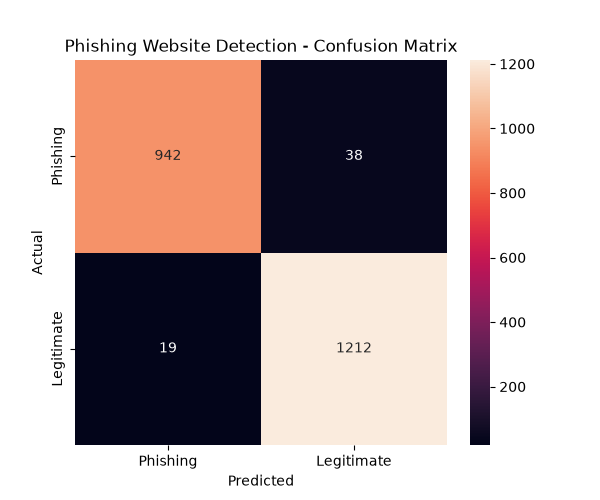
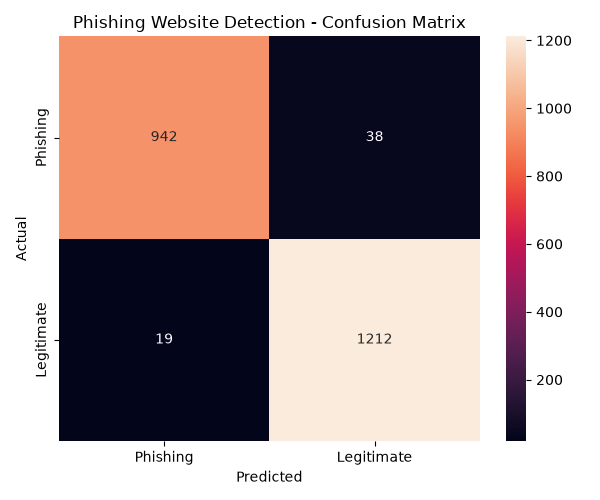
Improve README and update model

diff --git a/main.py b/main.py
@@ -5,14 +5,26 @@ from sklearn.metrics import accuracy_score, classification_report, confusion_mat
 import matplotlib.pyplot as plt
 import seaborn as sns
 
-# Load dataset
+
+# ==========================================
+# 1. LOAD DATASET
+# ==========================================
+
 df = pd.read_csv("data/dataset.csv")
 
-# Separate features and target
+
+# ==========================================
+# 2. SEPARATE FEATURES AND TARGET
+# ==========================================
+
 X = df.drop("Result", axis=1)
 y = df["Result"]
 
-# Split dataset into training and testing data
+
+# ==========================================
+# 3. SPLIT DATA INTO TRAINING AND TESTING
+# ==========================================
+
 X_train, X_test, y_train, y_test = train_test_split(
     X,
     y,
@@ -21,35 +33,82 @@ X_train, X_test, y_train, y_test = train_test_split(
     stratify=y
 )
 
-# Create Random Forest model
+
+# ==========================================
+# 4. CREATE RANDOM FOREST MODEL
+# ==========================================
+
 model = RandomForestClassifier(
     n_estimators=100,
     random_state=42
 )
 
-# Train the model
+
+# ==========================================
+# 5. TRAIN MODEL
+# ==========================================
+
 model.fit(X_train, y_train)
 
-# Make predictions
+
+# ==========================================
+# 6. WEBSITE PREDICTION FUNCTION
+# ==========================================
+
+def predict_website(features):
+    prediction = model.predict([features])[0]
+
+    if prediction == -1:
+        return "Phishing Website"
+    else:
+        return "Legitimate Website"
+
+
+# ==========================================
+# 7. TEST MODEL
+# ==========================================
+
 y_pred = model.predict(X_test)
 
-# Calculate accuracy
+
+# ==========================================
+# 8. CALCULATE ACCURACY
+# ==========================================
+
 accuracy = accuracy_score(y_test, y_pred)
+
 
 print("Phishing Website Detection Model")
 print("---------------------------------")
 print("Training samples:", len(X_train))
 print("Testing samples:", len(X_test))
 print("Accuracy:", round(accuracy * 100, 2), "%")
+
+
+# ==========================================
+# 9. CLASSIFICATION REPORT
+# ==========================================
+
 print("\nClassification Report:")
 print(classification_report(y_test, y_pred))
 
-print("Confusion Matrix:")
-print(confusion_matrix(y_test, y_pred))
-# Create confusion matrix visualization
+
+# ==========================================
+# 10. CONFUSION MATRIX
+# ==========================================
+
 cm = confusion_matrix(y_test, y_pred)
 
+print("Confusion Matrix:")
+print(cm)
+
+
+# ==========================================
+# 11. CONFUSION MATRIX VISUALIZATION
+# ==========================================
+
 plt.figure(figsize=(6, 5))
+
 sns.heatmap(
     cm,
     annot=True,
@@ -62,5 +121,8 @@ plt.xlabel("Predicted")
 plt.ylabel("Actual")
 plt.title("Phishing Website Detection - Confusion Matrix")
 
+plt.tight_layout()
+
 plt.savefig("results/confusion_matrix.png")
+
 plt.show()

diff --git a/README.md b/README.md
@@ -1,0 +1,100 @@
+# Machine Learning-Based Phishing Website Detection
+
+A machine learning project that detects whether a website is likely to be phishing or legitimate using URL and website-related features.
+
+## Project Overview
+
+Phishing websites are designed to trick users into providing sensitive information such as usernames, passwords, and financial details.
+
+This project uses machine learning to classify websites based on 30 features related to their URLs and website characteristics.
+
+A Random Forest Classifier is trained on the Phishing Websites dataset and evaluated using a separate testing dataset.
+
+## Machine Learning Workflow
+
+Dataset
+↓
+Data Preprocessing
+↓
+Feature Selection
+↓
+Train-Test Split
+↓
+Random Forest Classifier
+↓
+Prediction
+↓
+Model Evaluation
+
+## Dataset
+
+The project uses the **Phishing Websites dataset** from the UCI Machine Learning Repository.
+
+Dataset size:
+
+- 11,055 website records
+- 30 input features
+- 1 target variable
+- No missing values
+
+The dataset contains features related to URL structure, HTTPS usage, redirects, domain information, web traffic, page rank, and other website characteristics.
+
+## Technologies Used
+
+- Python
+- Pandas
+- NumPy
+- Scikit-learn
+- Matplotlib
+- Seaborn
+- Git & GitHub
+
+## Machine Learning Algorithm
+
+### Random Forest Classifier
+
+Random Forest is an ensemble machine learning algorithm that combines multiple decision trees to make predictions.
+
+In this project:
+
+- Number of trees: 100
+- Test size: 20%
+- Random state: 42
+- Stratified train-test split
+
+## Model Results
+
+The model achieved approximately:
+
+**97.42% Accuracy**
+
+### Classification Report
+
+| Class | Precision | Recall | F1-Score |
+|------|-----------|--------|----------|
+| -1 | 0.98 | 0.96 | 0.97 |
+| 1 | 0.97 | 0.98 | 0.98 |
+
+## Confusion Matrix
+
+The confusion matrix shows the number of correctly and incorrectly classified websites.
+
+![Confusion Matrix](results/confusion_matrix.png)
+
+## Project Structure
+
+```text
+Phishing-Website-Detection/
+│
+├── data/
+│   ├── dataset.csv
+│   └── Training Dataset.arff
+│
+├── results/
+│   └── confusion_matrix.png
+│
+├── src/
+│
+├── .gitignore
+├── main.py
+└── README.md
